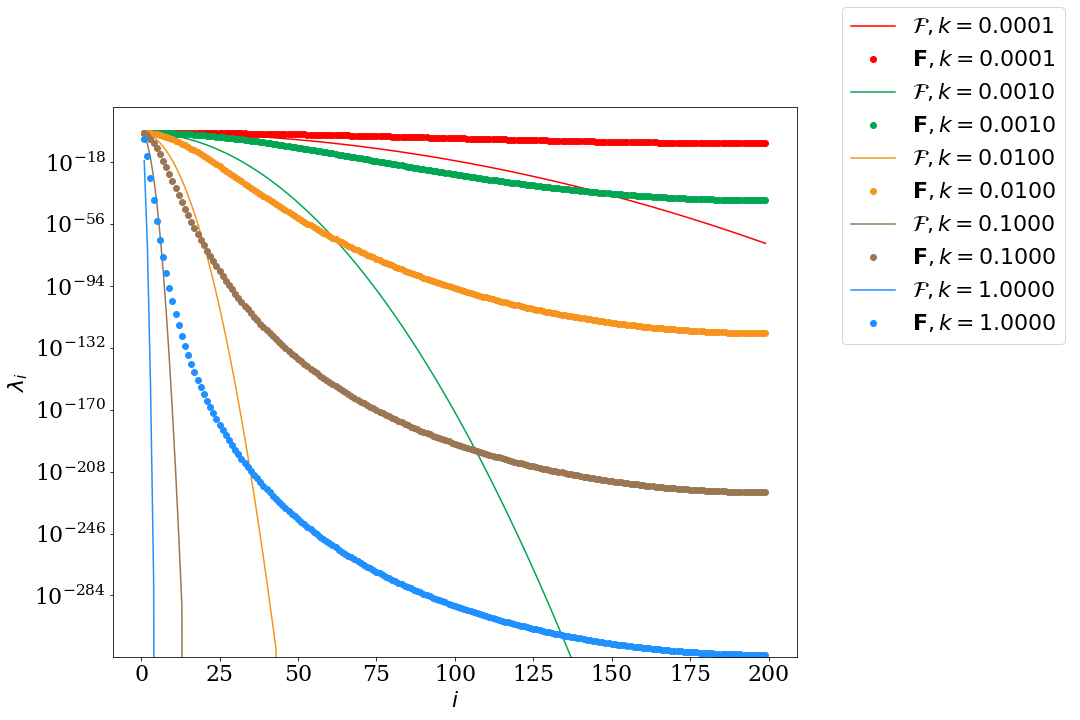
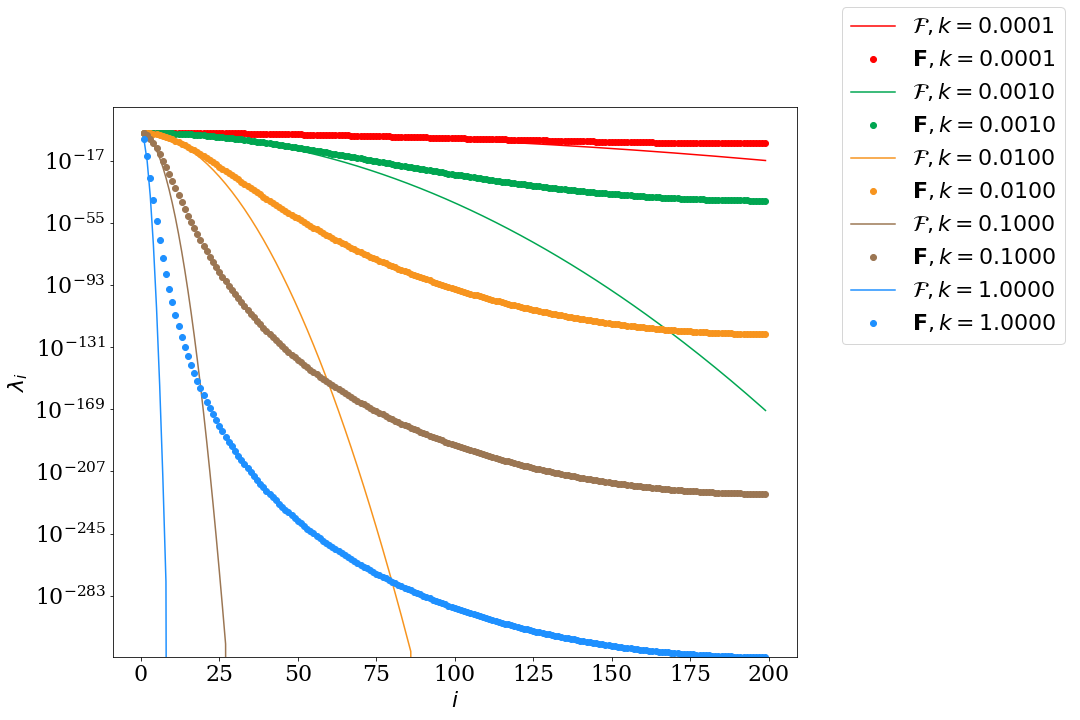
1d working!

diff --git a/HW1-ill-posedness/Q1eigen_vals_heatdiff.py b/HW1-ill-posedness/Q1eigen_vals_heatdiff.py
@@ -8,7 +8,7 @@ import numpy as np
 from matplotlib import cm         #color map
 
 
-eigen_cont = lambda k,T,L,i: np.exp(-k*T*(2*np.pi/L)**2*i**2) #eigen value of continuous operator
+eigen_cont = lambda k,T,L,i: np.exp(-k*T*(np.pi/L)**2*i**2) #eigen value of continuous operator
 eigen_disc = lambda dt,k,h,i,nx,nt: (1 + dt*k*4/h**2*(np.sin(np.pi*i/(2*nx)))**2)**(-nt) #eigen value of discrete operator
 
 #Colors
@@ -22,6 +22,8 @@ brown  = [155/255 ,  118/255 ,  83/255]
 tan    = [199/255 , 178/255 , 153/255]
 gray   = [100/255 , 100/255 , 100/255]
 
+color_array = [red,green,orange,brown,blue,purple]
+
 
 #PART (c)
 #Parameters
@@ -33,13 +35,8 @@ nt= 100#Number of cells in time
 i = np.linspace(1,nx - 1,nx - 1) #Modes
 h = L/nx #Cell sixe
 dt= T/nt #Time step
-
-
 k_array = np.logspace(-4,0,5)
 
-Reds = cm.get_cmap('Reds', len(k_array)*2)
-Blues = cm.get_cmap('Blues', len(k_array)*2)
-color_array = [red,green,orange,brown,blue,purple]
 
 plt.figure(figsize=(15,10))
 for count, k in enumerate(k_array):
@@ -52,3 +49,31 @@ plt.ylabel(r'$\lambda_i$')
 
 plt.tight_layout(pad=0.4, w_pad=0.5, h_pad=1.0)
 plt.savefig(f"1c_discvscont_evals.png")
+
+
+#PART (d)
+#Parameters
+T = 0.1 #Final time
+L = 1 #Length of the domain [0,1]
+k = 0.01#Diffusion coefficient
+
+nxnt = [160,80,40,20]
+
+plt.figure(figsize=(15,10))
+for count, nx in enumerate(nxnt):
+    i = np.linspace(1,nx- 1,nx - 1) #Modes
+    nt = nx
+    h = L/nx #Cell sixe
+    dt= T/nt #Time step
+    plot = plt.semilogy(i,eigen_disc(dt,k,h,i,nx,nt),'ro',c=color_array[count],label=f'({nx},{nt})')
+
+i = np.linspace(1,160 - 1,160 - 1) #Modes
+
+plot = plt.semilogy(i,eigen_cont(k,T,L,i),'k--',label=f'Analytical')
+
+plt.legend(loc='lower left')
+plt.xlabel(r'$i$')
+plt.ylabel(r'$\lambda_i$')
+
+plt.tight_layout(pad=0.4, w_pad=0.5, h_pad=1.0)
+plt.savefig(f"1d_discvscont_eval_discretization.png")
